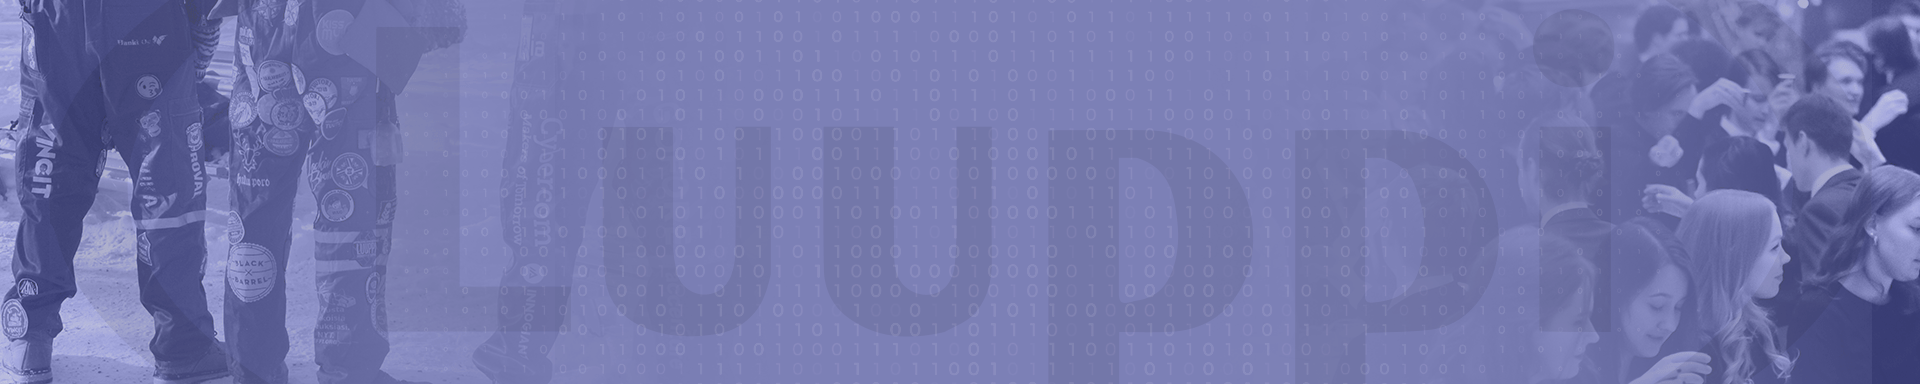
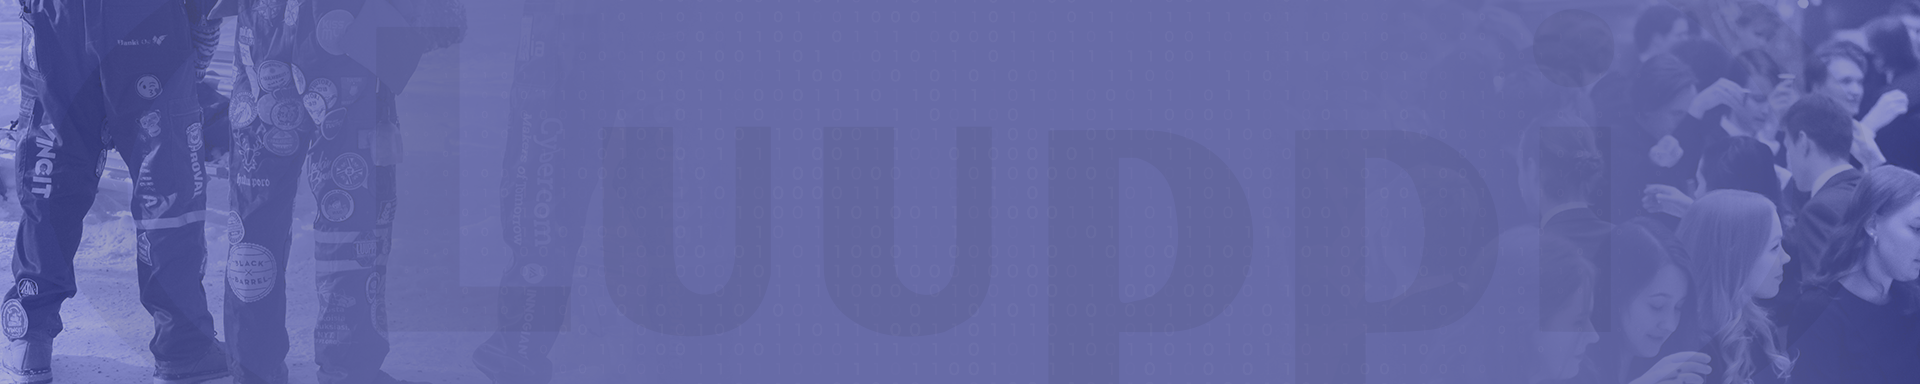
style changes

diff --git a/next/src/components/Header/Header.tsx b/next/src/components/Header/Header.tsx
@@ -30,10 +30,10 @@ export default function Header({
 
   return (
     <div>
-      <div className="h-36 bg-primary-950 max-lg:h-16" />
-      <header className={`fixed top-0 z-50 w-full bg-primary-950 text-white`}>
+      <div className="h-36 bg-primary-800 max-lg:h-16" />
+      <header className={`fixed top-0 z-50 w-full bg-primary-800 text-white`}>
         <nav
-          className={`bg-primary-400 px-4 transition-all duration-300 max-lg:h-16 max-lg:shadow-md ${
+          className={`bg-primary-500 px-4 transition-all duration-300 max-lg:h-16 max-lg:shadow-md ${
             scrollPosition > 100 ? 'h-16' : 'h-24'
           }`}
         >
@@ -57,7 +57,7 @@ export default function Header({
             <div className="flex items-center gap-4">
               <LanguageSwitcher />
               <button
-                className={`flex items-center rounded-lg bg-primary-300 px-4 py-2  font-bold  transition-all duration-300 max-lg:hidden ${
+                className={`flex items-center rounded-lg bg-primary-600 px-4 py-2  font-bold  transition-all duration-300 max-lg:hidden ${
                   scrollPosition > 100 ? 'text-lg' : 'text-xl'
                 }`}
               >

diff --git a/next/src/app/[lang]/layout.tsx b/next/src/app/[lang]/layout.tsx
@@ -3,11 +3,11 @@ import Header from '@/components/Header/Header';
 import { getDictionary } from '@/dictionaries';
 import { SupportedLanguage } from '@/models/locale';
 import type { Metadata } from 'next';
-import { Titillium_Web } from 'next/font/google';
+import { Poppins } from 'next/font/google';
 import { i18n } from '../../i18n-config';
 import './globals.css';
 
-const titilliumFont = Titillium_Web({
+const titilliumFont = Poppins({
   subsets: ['latin'],
   weight: ['200', '300', '400', '600', '700', '900'],
 });

diff --git a/next/src/components/Footer/Footer.tsx b/next/src/components/Footer/Footer.tsx
@@ -2,7 +2,7 @@ import Image from 'next/image';
 
 export default function Footer() {
   return (
-    <footer className="bg-primary-400">
+    <footer className="bg-primary-500">
       <div className="mx-auto w-full max-w-screen-xl p-4 py-6 lg:py-8">
         <div className="md:flex md:justify-between">
           <div className="mb-6 md:mb-0">

diff --git a/next/src/components/LanguageSwitcher/LanguageSwitcher.tsx b/next/src/components/LanguageSwitcher/LanguageSwitcher.tsx
@@ -21,7 +21,7 @@ export default function LanguageSwitcher() {
 
   return (
     <button
-      className="group rounded-full bg-primary-200 p-1 max-lg:hidden"
+      className="group rounded-full bg-primary-600 p-1 max-lg:hidden"
       onClick={() => switchLocale(currentLocale === 'fi' ? 'en' : 'fi')}
     >
       {currentLocale === 'fi' ? (
